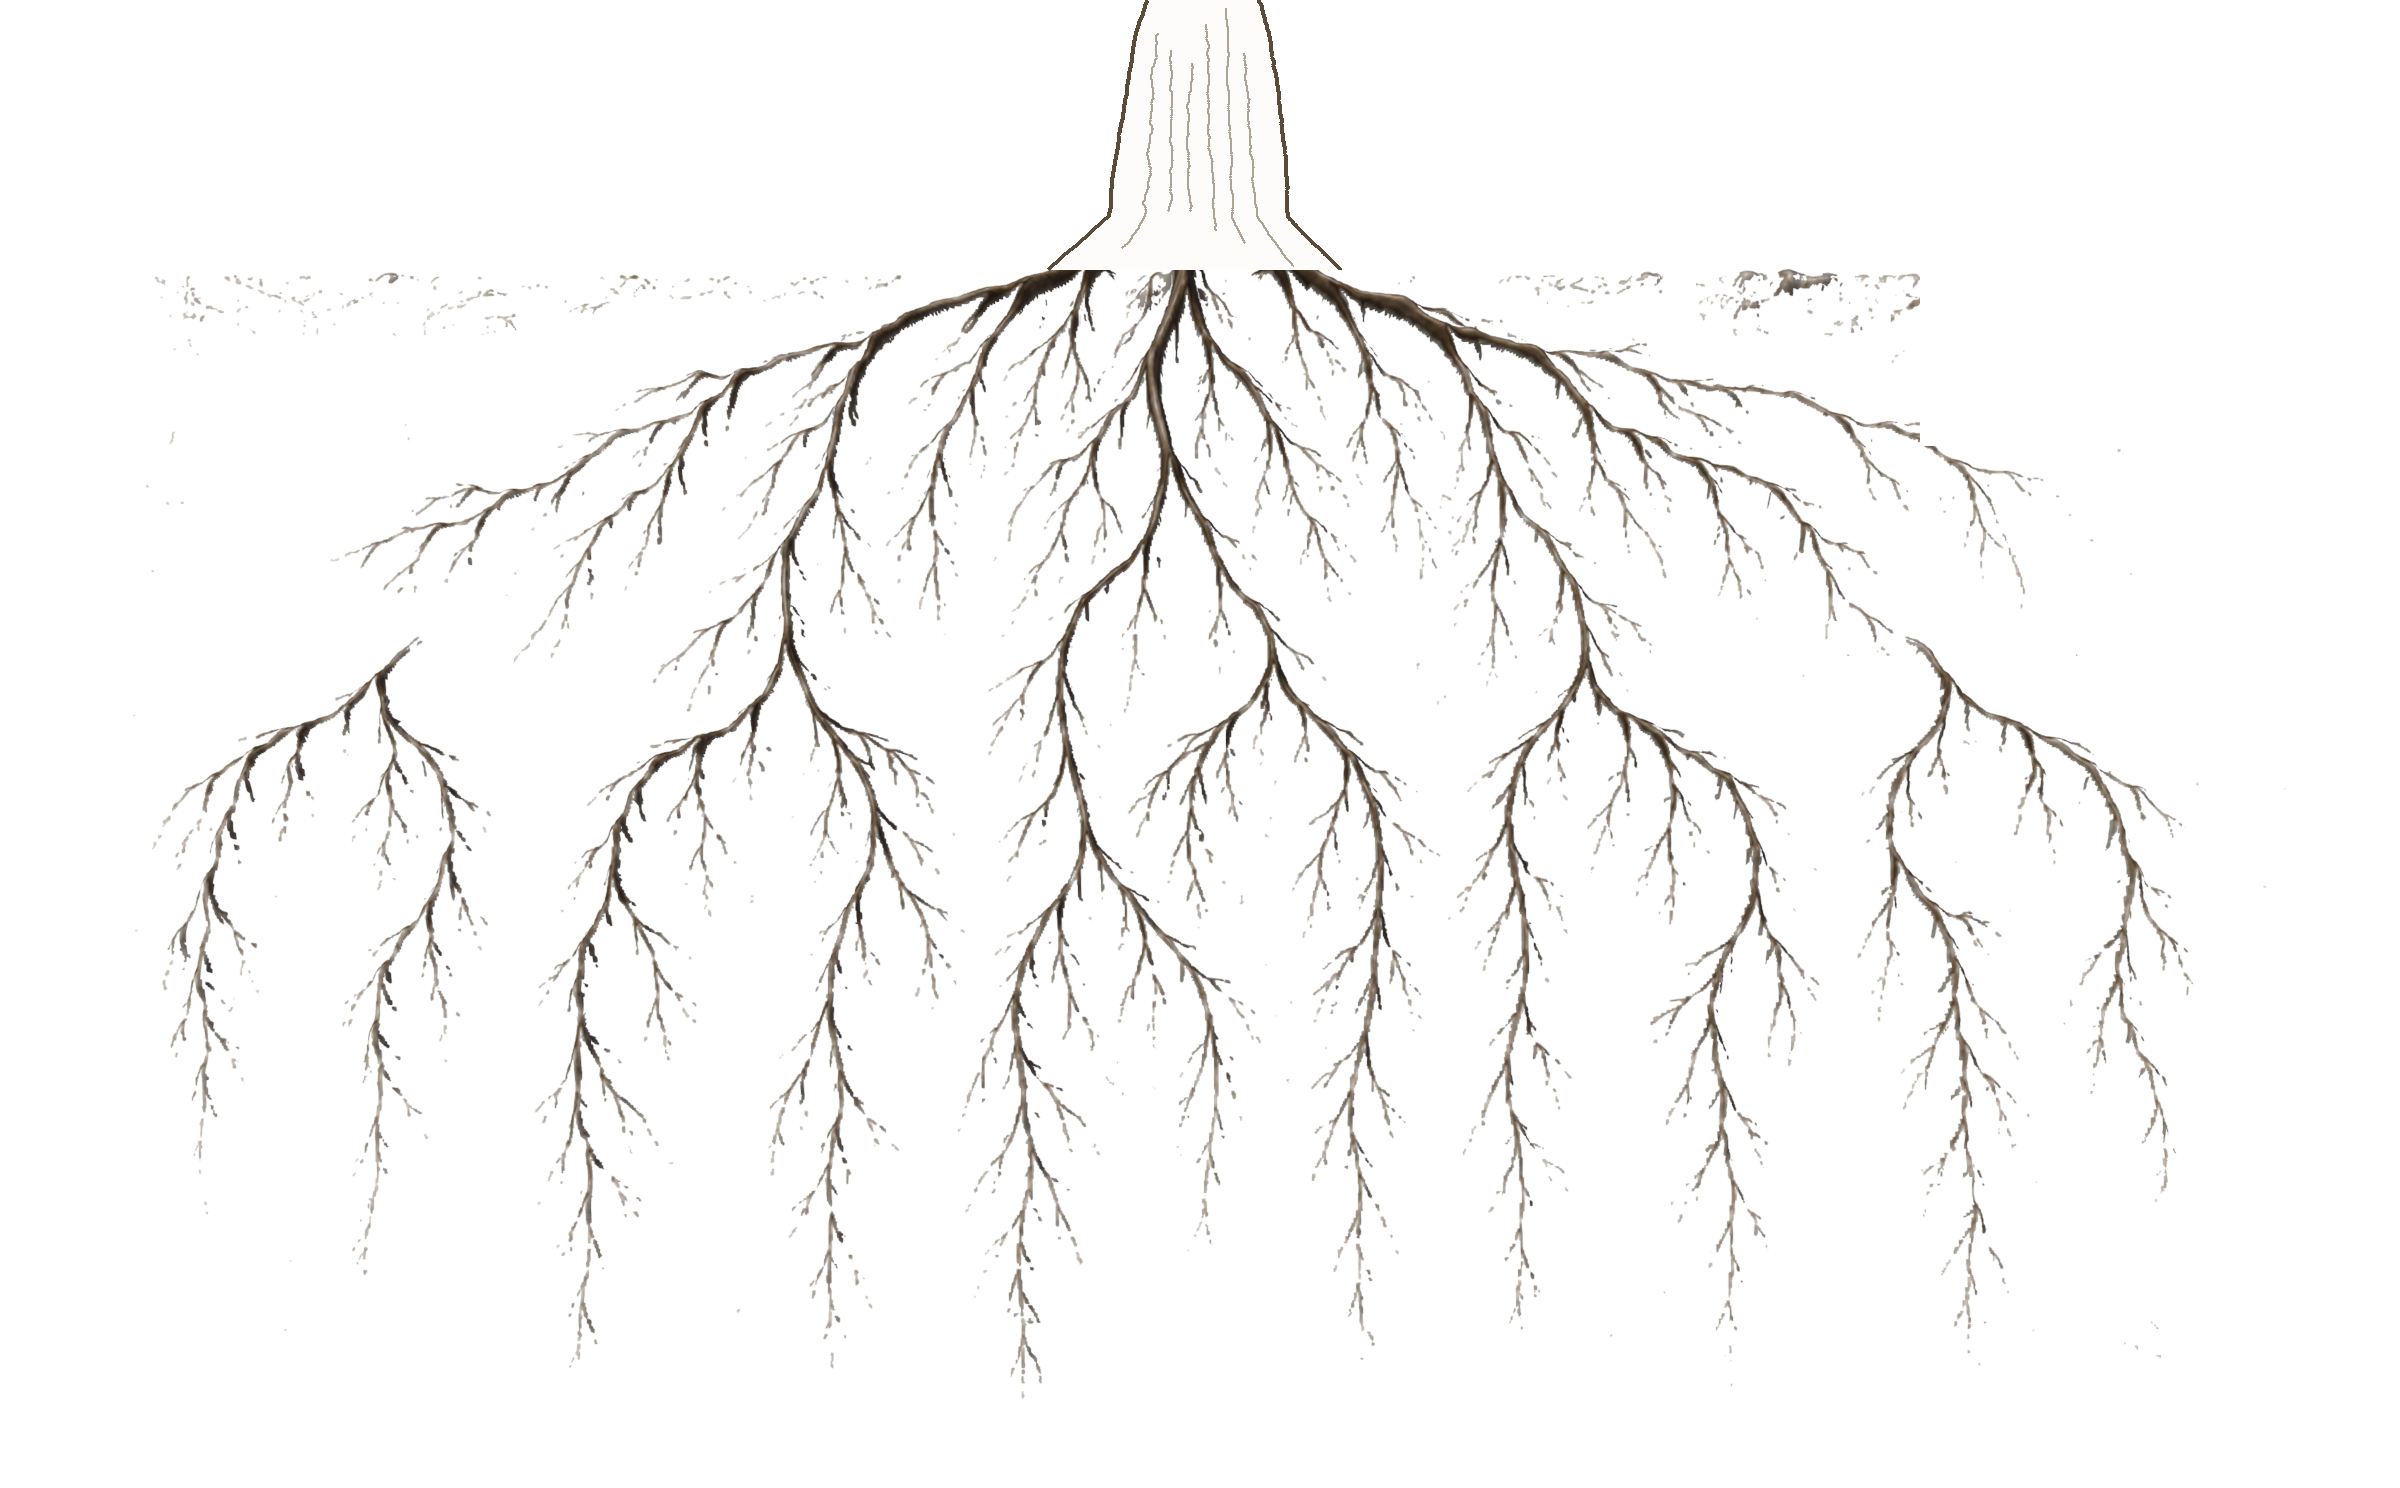
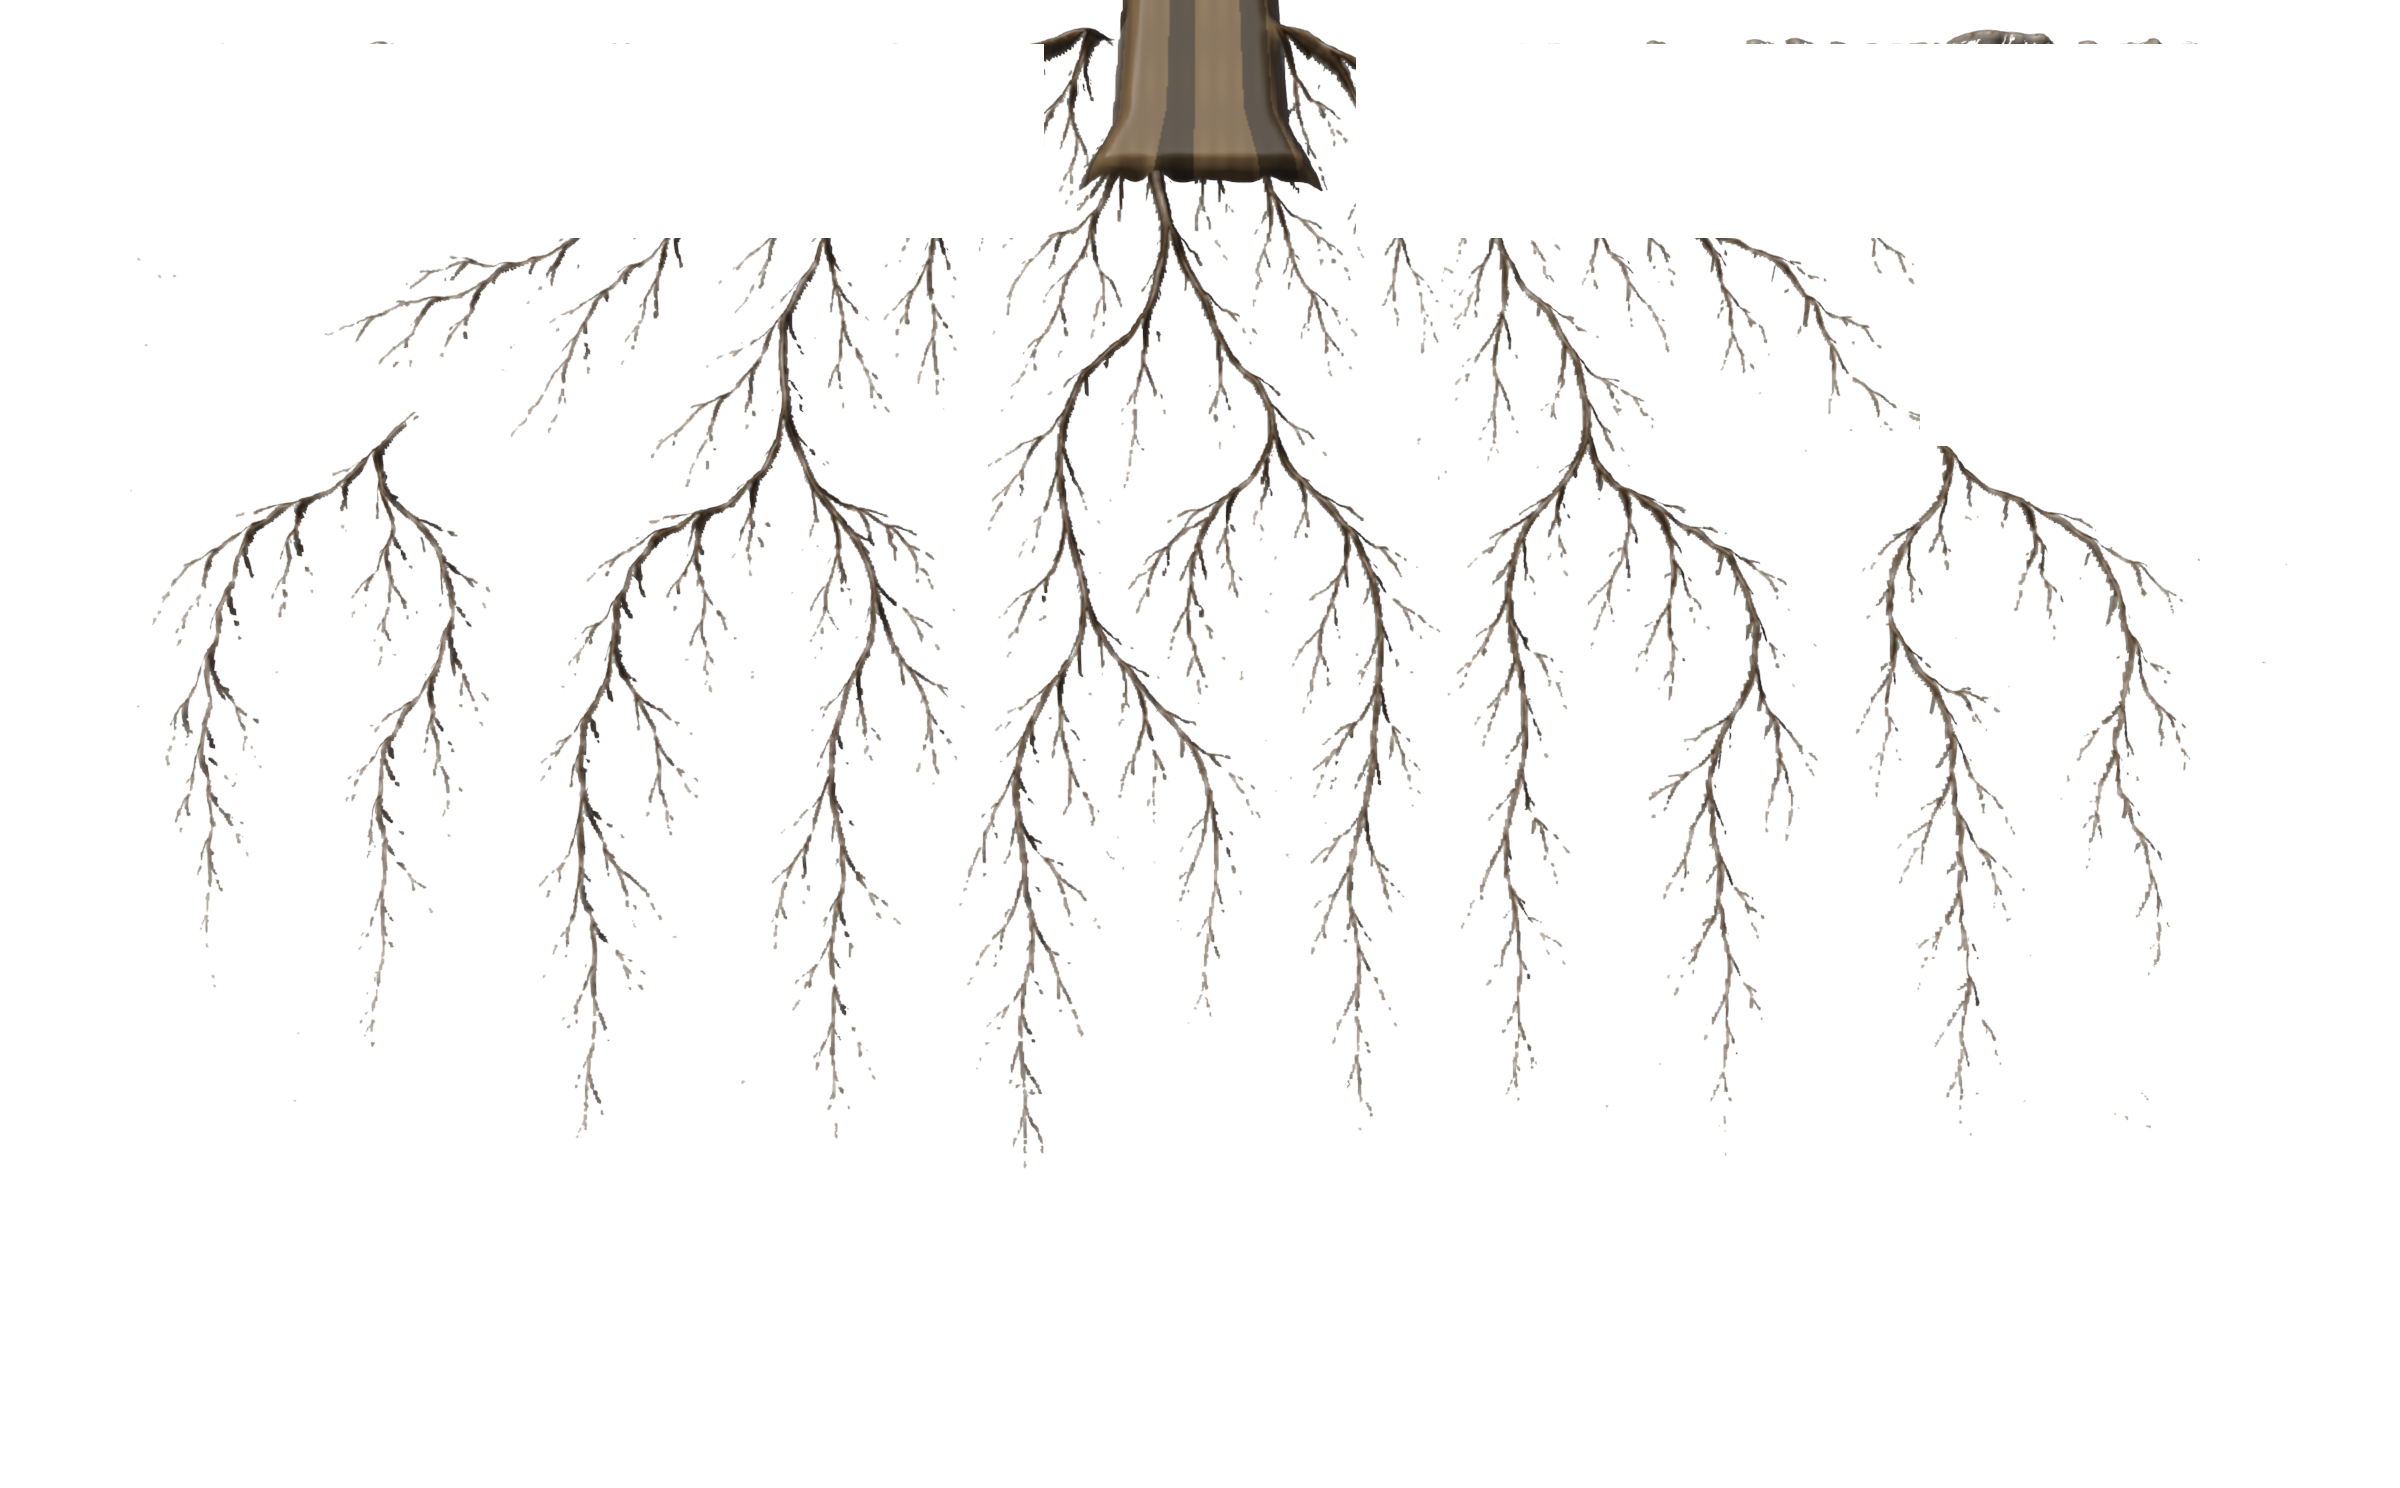
fix(roots): extrude the trunk (filled relief), not a flat line drawing
The trunk was drawn as a hollow 2D line-art outline in the bake step, so it
read as unfilled next to the extruded roots. Extrude it the same way as the
roots instead: a filled, warm-sepia relief trunk with engraved bark lines,
centered, taller (raised camera framing so it rises to meet the dashboard).
NODE_LAYOUT re-projected for the new framing.

diff --git a/src/components/reconciliation/rootMapLayout.js b/src/components/reconciliation/rootMapLayout.js
@@ -14,40 +14,40 @@
 // backdrop is re-rendered at a different camera, re-run that projection.
 export const NODE_LAYOUT = {
   Structure: {
-    x: 0.3008,
-    y: 0.485,
+    x: 0.3002,
+    y: 0.334,
     children: {
-      Units: { x: 0.2541, y: 0.5761 },
-      Groups: { x: 0.248, y: 0.7364 },
-      'Age Divisions': { x: 0.347, y: 0.8169 },
+      Units: { x: 0.2542, y: 0.4256 },
+      Groups: { x: 0.2493, y: 0.5849 },
+      'Age Divisions': { x: 0.3482, y: 0.6644 },
     },
   },
   Scheduling: {
-    x: 0.4456,
-    y: 0.4807,
+    x: 0.4454,
+    y: 0.3299,
     children: {
-      Activities: { x: 0.4541, y: 0.5739 },
-      'Fixed Events': { x: 0.4256, y: 0.6533 },
+      Activities: { x: 0.4541, y: 0.4234 },
+      'Fixed Events': { x: 0.4259, y: 0.5026 },
     },
   },
   Time: {
     x: 0.5503,
-    y: 0.5404,
+    y: 0.3896,
     children: {
-      Days: { x: 0.5488, y: 0.5963 },
-      'Time Blocks': { x: 0.5622, y: 0.7347 },
+      Days: { x: 0.5487, y: 0.4457 },
+      'Time Blocks': { x: 0.5619, y: 0.5833 },
     },
   },
   Facility: {
-    x: 0.6456,
-    y: 0.5224,
+    x: 0.6458,
+    y: 0.3716,
     children: {
-      Locations: { x: 0.6258, y: 0.7352 },
+      Locations: { x: 0.6251, y: 0.5838 },
     },
   },
   Context: {
-    x: 0.8025,
-    y: 0.4992,
+    x: 0.8032,
+    y: 0.3485,
     children: {},
   },
 }
